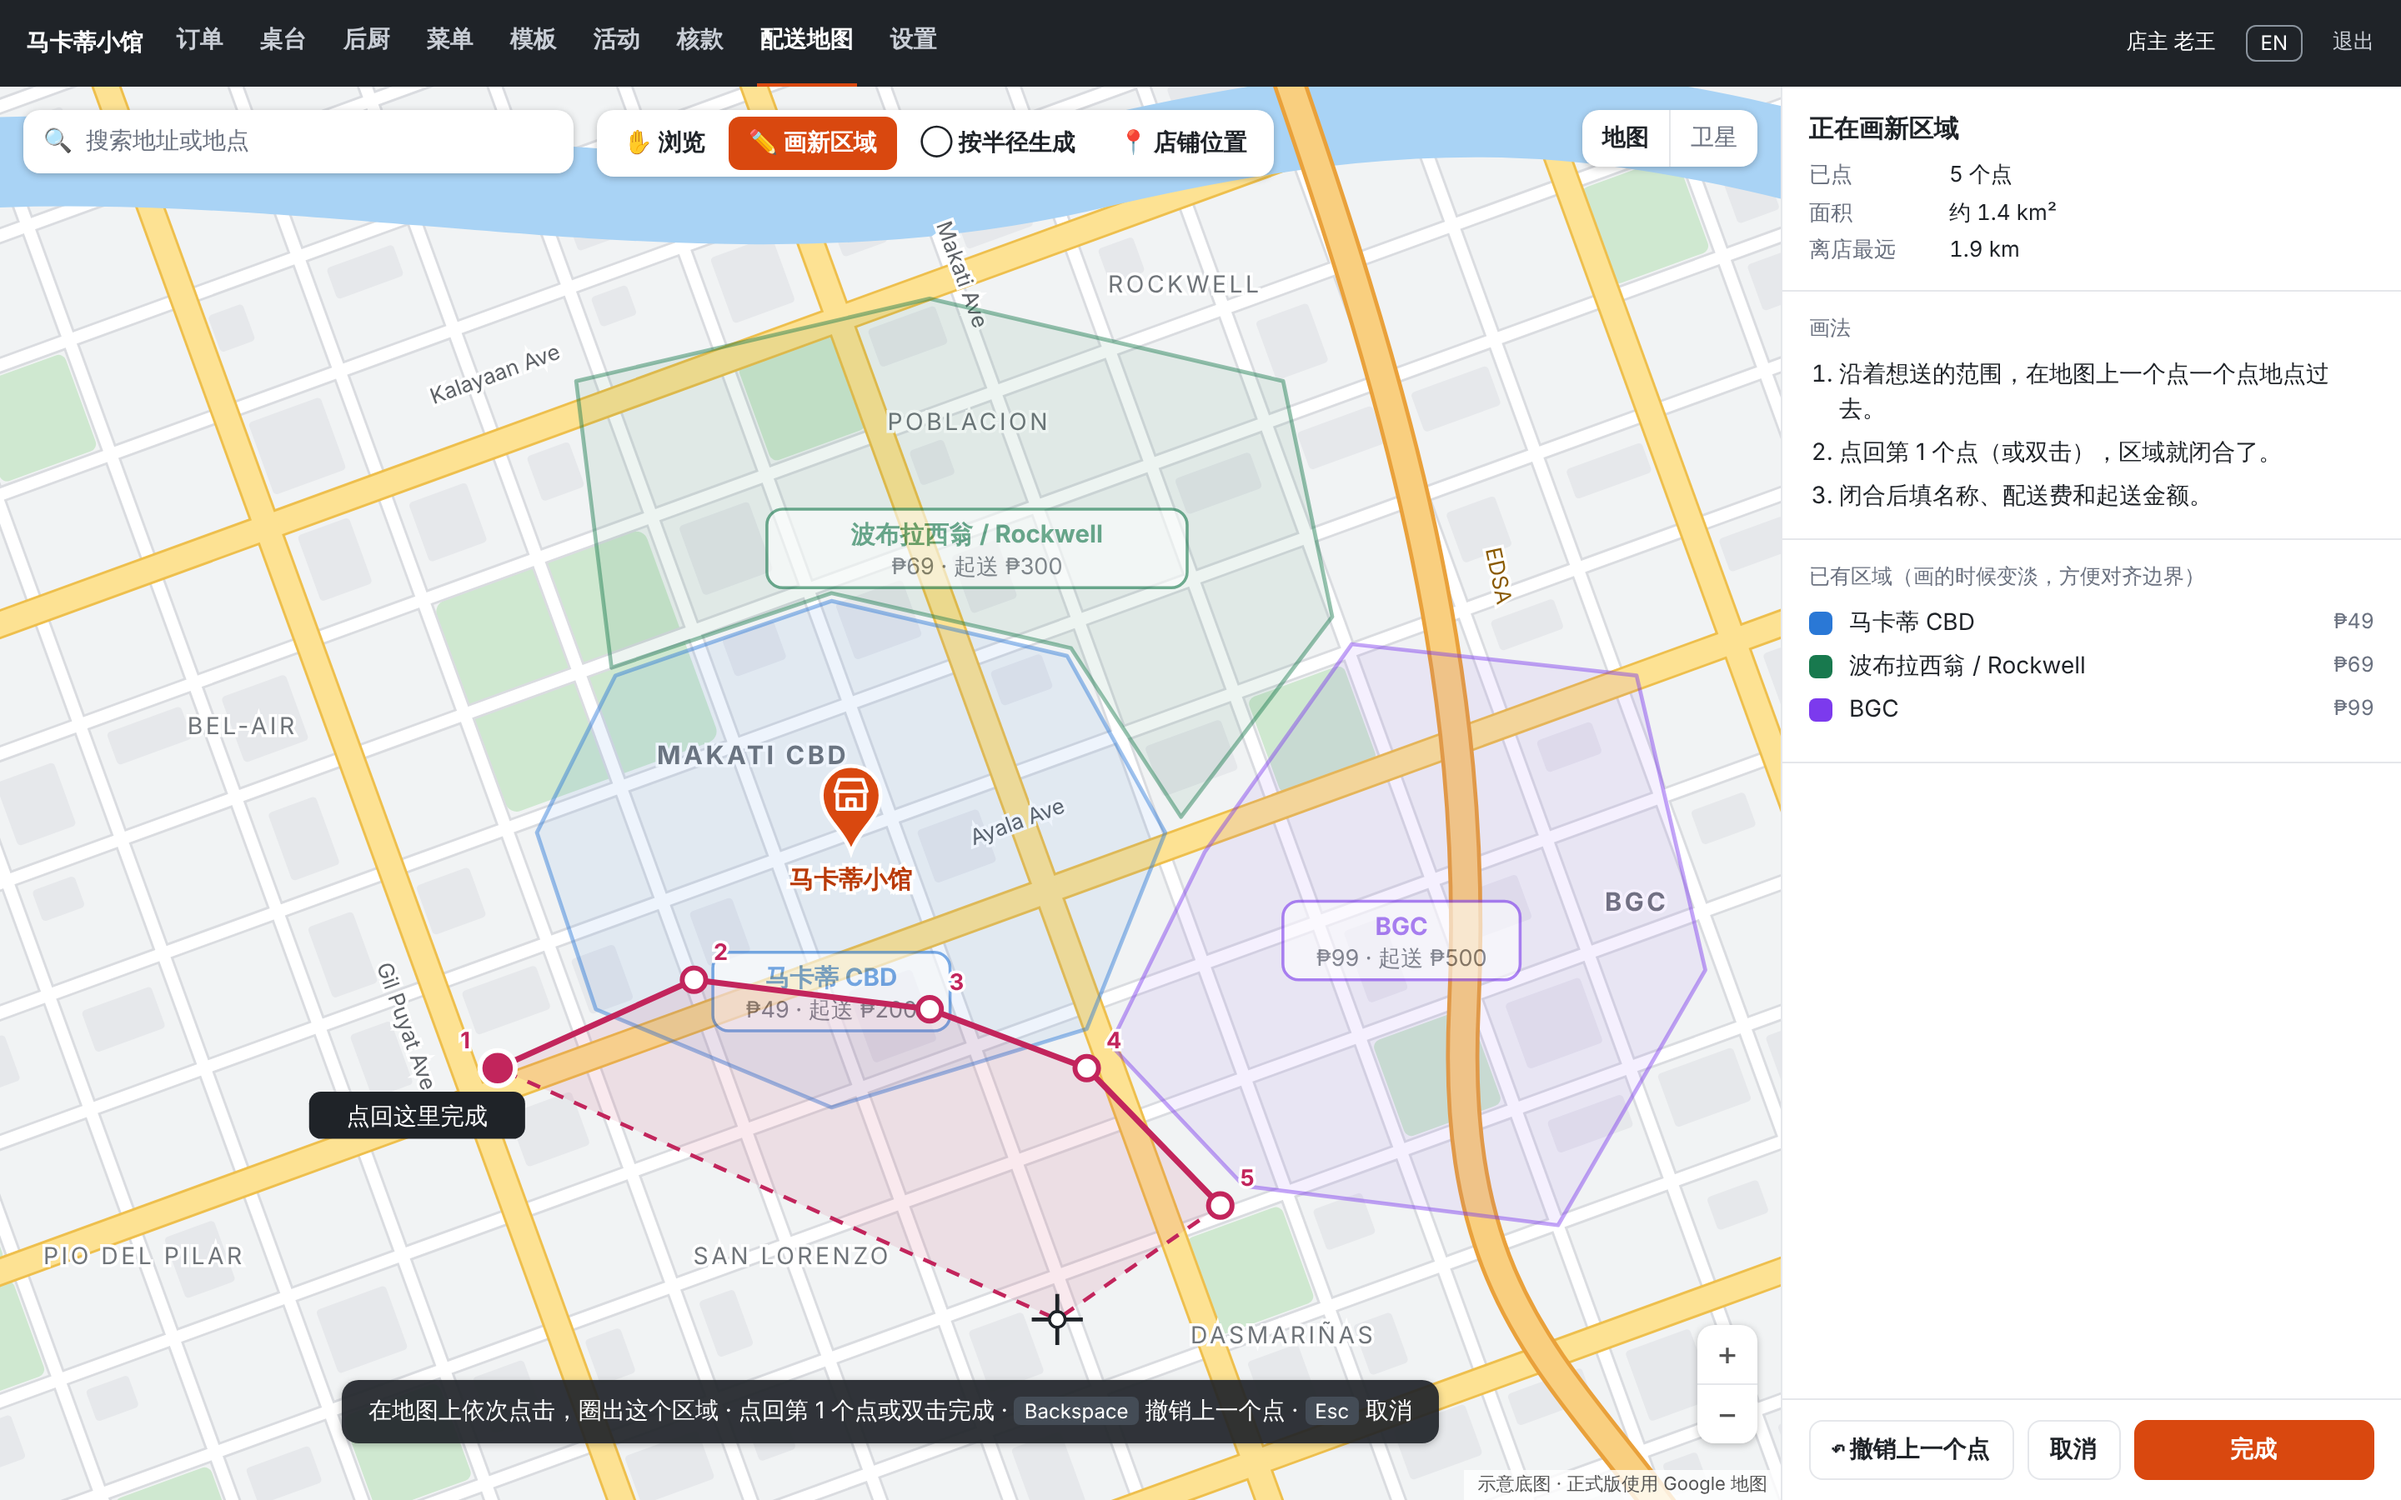
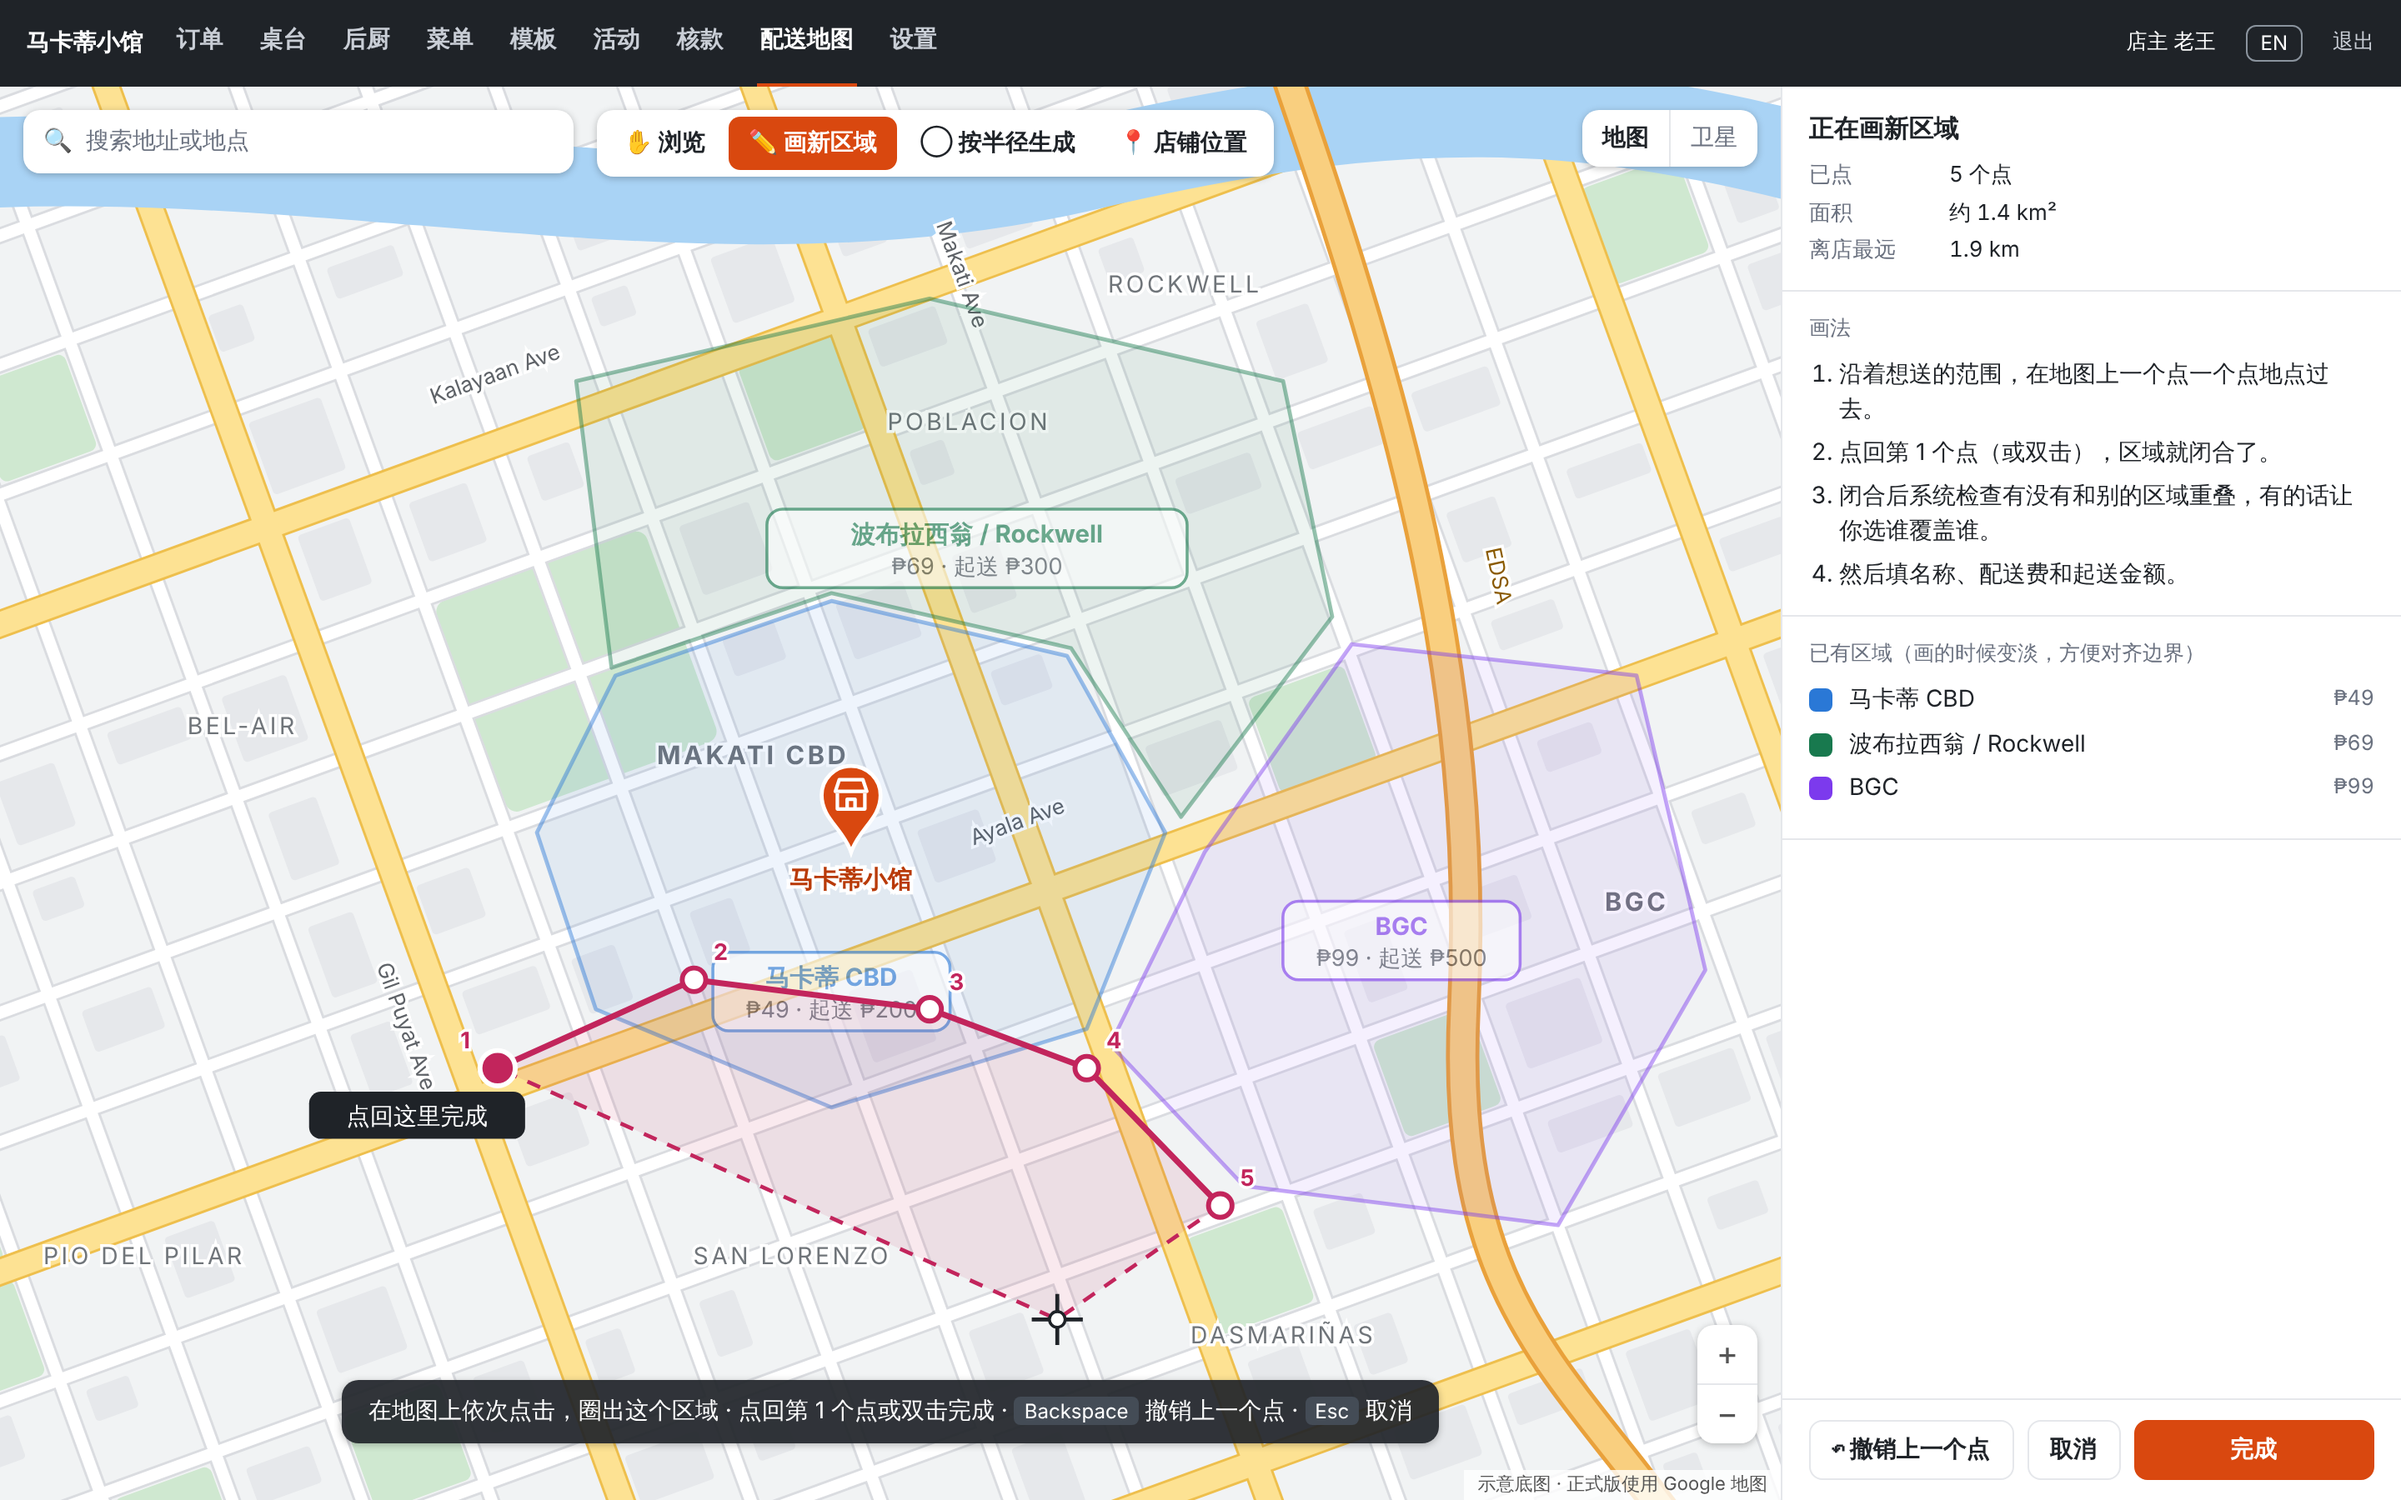
配送地图方案 v0.2：闭合后检测重叠，由商家选谁覆盖谁
Claude-Session: https://claude.ai/code/session_0171QGWNJm5DRKLpjM12hswJ

Changed region(s): [[0.75, 0.3111, 0.9688, 0.5289], [0.9688, 0.4044, 1.0, 0.5289]]

diff --git a/docs/map-prototype/index.html b/docs/map-prototype/index.html
@@ -6,7 +6,7 @@
 <link rel="stylesheet" href="map.css">
 </head>
 <body>
-<!-- 原型：用 ?s=overview｜draw｜form｜location 切换四个状态。底图是示意图，正式版换成 Google 地图。 -->
+<!-- 原型：用 ?s=overview｜draw｜overlap｜form｜location 切换五个状态。底图是示意图，正式版换成 Google 地图。 -->
 <nav class="staffbar">
   <b>马卡蒂小馆</b>
   <a>订单</a><a>桌台</a><a>后厨</a><a>菜单</a><a>模板</a><a>活动</a><a>核款</a><a class="on">配送地图</a><a>设置</a>
@@ -36,7 +36,7 @@
 var s = new URLSearchParams(location.search).get('s') || 'overview';
 var svg = document.getElementById('svg'), panel = document.getElementById('panel'), hint = document.getElementById('hint');
 document.querySelectorAll('.tools span').forEach(function (e) {
-  if (e.dataset.t === (s === 'form' ? 'draw' : s)) e.className = 'on';
+  if (e.dataset.t === (s === 'form' || s === 'overlap' ? 'draw' : s)) e.className = 'on';
   e.onclick = function () { location.search = '?s=' + (e.dataset.t === 'circle' ? 'overview' : e.dataset.t); };
 });
 baseMap(svg);
@@ -81,10 +81,10 @@ if (s === 'draw') {
   hint.hidden = false;
   hint.innerHTML = '在地图上依次点击，圈出这个区域 · 点回第 1 个点或双击完成 · <kbd>Backspace</kbd> 撤销上一个点 · <kbd>Esc</kbd> 取消';
   panel.innerHTML = '<section><h2>正在画新区域</h2><div class="kv"><span>已点</span><span class="num">5 个点</span><span>面积</span><span class="num">约 1.4 km²</span><span>离店最远</span><span class="num">1.9 km</span></div></section>' +
-    '<section><p class="muted small" style="margin-bottom:8px">画法</p><ol style="margin:0;padding-left:18px;display:grid;gap:6px"><li>沿着想送的范围，在地图上一个点一个点地点过去。</li><li>点回第 1 个点（或双击），区域就闭合了。</li><li>闭合后填名称、配送费和起送金额。</li></ol></section>' +
+    '<section><p class="muted small" style="margin-bottom:8px">画法</p><ol style="margin:0;padding-left:18px;display:grid;gap:6px"><li>沿着想送的范围，在地图上一个点一个点地点过去。</li><li>点回第 1 个点（或双击），区域就闭合了。</li><li>闭合后系统检查有没有和别的区域重叠，有的话让你选谁覆盖谁。</li><li>然后填名称、配送费和起送金额。</li></ol></section>' +
     '<section><p class="muted small" style="margin-bottom:8px">已有区域（画的时候变淡，方便对齐边界）</p>' +
     ZONES.map(function (z) { return '<div class="row" style="margin-bottom:6px"><span class="sw" style="background:' + z.color + '"></span><span class="grow">' + z.name + '</span><span class="small muted num">₱' + z.fee + '</span></div>'; }).join('') + '</section>' +
-    '<div class="foot"><a class="btn">↶ 撤销上一个点</a><a class="btn" href="?s=overview">取消</a><a class="btn primary grow" href="?s=form">完成</a></div>';
+    '<div class="foot"><a class="btn">↶ 撤销上一个点</a><a class="btn" href="?s=overview">取消</a><a class="btn primary grow" href="?s=overlap">完成</a></div>';
 }
 
 if (s === 'form') {
@@ -102,8 +102,35 @@ if (s === 'form') {
     colors.map(function (c) { return '<span class="sw' + (c === NEWZ.color ? ' on' : '') + '" style="background:' + c + '"></span>'; }).join('') + '</div></label></div>' +
     '<div class="row between"><span>启用这个区域</span><span class="switch"></span></div></section>' +
     '<section><div class="kv"><span>顶点</span><span class="num">7 个</span><span>面积</span><span class="num">约 1.6 km²</span><span>离店最远</span><span class="num">2.1 km</span></div></section>' +
-    '<section><div class="banner warn">和“马卡蒂 CBD”有一小块重叠。重叠的地方按排在前面的“马卡蒂 CBD”计费（₱49）。可以拖动圆点把边界对齐，也可以不管。</div></section>' +
+    '<section><div class="banner warn">和“马卡蒂 CBD”有重叠，你选的是<b>旧的覆盖新的</b>：重叠部分仍按“马卡蒂 CBD”计费（₱49）。 <a href="?s=overlap" style="color:inherit;text-decoration:underline;font-weight:700">改选</a></div></section>' +
     '<div class="foot"><a class="btn danger">删除</a><a class="btn" href="?s=draw">重画</a><a class="btn primary grow" href="?s=overview">保存区域</a></div>';
+}
+
+if (s === 'overlap') {
+  ZONES.slice().reverse().forEach(function (z) { drawZone(svg, z, { dim: z.id !== 'cbd', label: false }); });
+  drawZone(svg, NEWZ, { sel: true, label: false });
+  // 重叠部分：用旧区域的形状去裁新区域，画上斜线
+  var defs = el('defs', {}), cp = el('clipPath', { id: 'ov' }), pat = el('pattern', { id: 'hatch', width: 8, height: 8, patternUnits: 'userSpaceOnUse', patternTransform: 'rotate(45)' });
+  cp.appendChild(el('polygon', { points: ZONES[0].pts.join(' ') }));
+  pat.appendChild(el('rect', { width: 8, height: 8, fill: '#ffd43b' })); pat.appendChild(el('rect', { width: 3.5, height: 8, fill: '#1f2328' }));
+  defs.appendChild(cp); defs.appendChild(pat); svg.appendChild(defs);
+  svg.appendChild(el('polygon', { points: NEWZ.pts.join(' '), fill: 'url(#hatch)', 'fill-opacity': .75, stroke: '#1f2328', 'stroke-width': 2, 'clip-path': 'url(#ov)' }));
+  pin(svg, STORE, { text: '马卡蒂小馆' });
+  var mini = function (newTop) {
+    var a = '<rect x="20" y="12" width="92" height="50" rx="6" fill="#2a78d6" fill-opacity="' + (newTop ? .35 : .9) + '"/>';
+    var b = '<rect x="78" y="26" width="92" height="40" rx="6" fill="#c2255c" fill-opacity="' + (newTop ? .9 : .35) + '"/>';
+    return '<svg viewBox="0 0 190 74">' + (newTop ? a + b : b + a) + '<text x="34" y="30" font-size="11" fill="#fff" font-weight="700">旧</text><text x="150" y="56" font-size="11" fill="#fff" font-weight="700">新</text></svg>';
+  };
+  var d = document.createElement('div'); d.className = 'scrim'; document.getElementById('map').appendChild(d);
+  d = document.createElement('div'); d.className = 'float dialog';
+  d.innerHTML = '<h2>新区域和“马卡蒂 CBD”有重叠</h2><p class="muted">地图上斜线的部分，约 0.2 km²。这一块算哪个区域？</p>' +
+    '<div class="choices"><a class="choice" href="?s=form">' + mini(true) + '<b>新的覆盖旧的</b><div class="small muted">重叠部分算新区域，按新区域的配送费和起送金额。</div></a>' +
+    '<a class="choice on" href="?s=form">' + mini(false) + '<b>旧的覆盖新的</b><div class="small muted">重叠部分仍算“马卡蒂 CBD”，配送费 ₱49，起送 ₱200。</div></a></div>' +
+    '<div class="row"><a class="btn" href="?s=draw">返回调整边界</a><span class="grow"></span><a class="btn primary" href="?s=form">确定，继续填写</a></div>';
+  document.getElementById('map').appendChild(d);
+  panel.innerHTML = '<section><h2>新区域已闭合</h2><div class="kv"><span>顶点</span><span class="num">7 个</span><span>面积</span><span class="num">约 1.6 km²</span><span>重叠</span><span class="num">1 个区域，约 0.2 km²</span></div></section>' +
+    '<section><p class="muted small" style="margin-bottom:8px">重叠的区域</p><div class="row"><span class="sw" style="background:#2a78d6"></span><span class="grow">马卡蒂 CBD</span><span class="small muted num">₱49 · 起送 ₱200</span></div></section>' +
+    '<section><p class="small muted">选好以后还能改：在区域表单里点“改选”，或者在配送区列表里拖动顺序，排在前面的覆盖排在后面的。</p></section>';
 }
 
 if (s === 'location') {

diff --git a/docs/map-prototype/map.css b/docs/map-prototype/map.css
@@ -87,3 +87,11 @@ label.field > span { display: block; font-size: 13px; color: var(--muted); margi
 .locate { right: 12px; bottom: 26px; width: 40px; height: 40px; border-radius: 50%; display: flex; align-items: center; justify-content: center; font-size: 18px; }
 .result { border: 1px solid var(--line); border-radius: 12px; padding: 12px; }
 .caption { text-align: center; color: var(--muted); margin-top: 10px; font-size: 13px; }
+
+.dialog { top: 84px; left: 50%; transform: translateX(-50%); width: 520px; padding: 18px 20px; box-shadow: 0 8px 30px rgba(0,0,0,.3); }
+.dialog h2 { font-size: 16px; margin-bottom: 4px; }
+.choices { display: grid; grid-template-columns: 1fr 1fr; gap: 12px; margin: 14px 0; }
+.choice { border: 1.5px solid var(--line); border-radius: 10px; padding: 12px; display: block; color: inherit; }
+.choice.on { border-color: var(--brand); box-shadow: 0 0 0 2px var(--brand-soft); }
+.choice svg { width: 100%; height: 74px; display: block; margin-bottom: 8px; background: #f6f6f4; border-radius: 6px; }
+.scrim { position: absolute; inset: 0; background: rgba(31,35,40,.18); }
